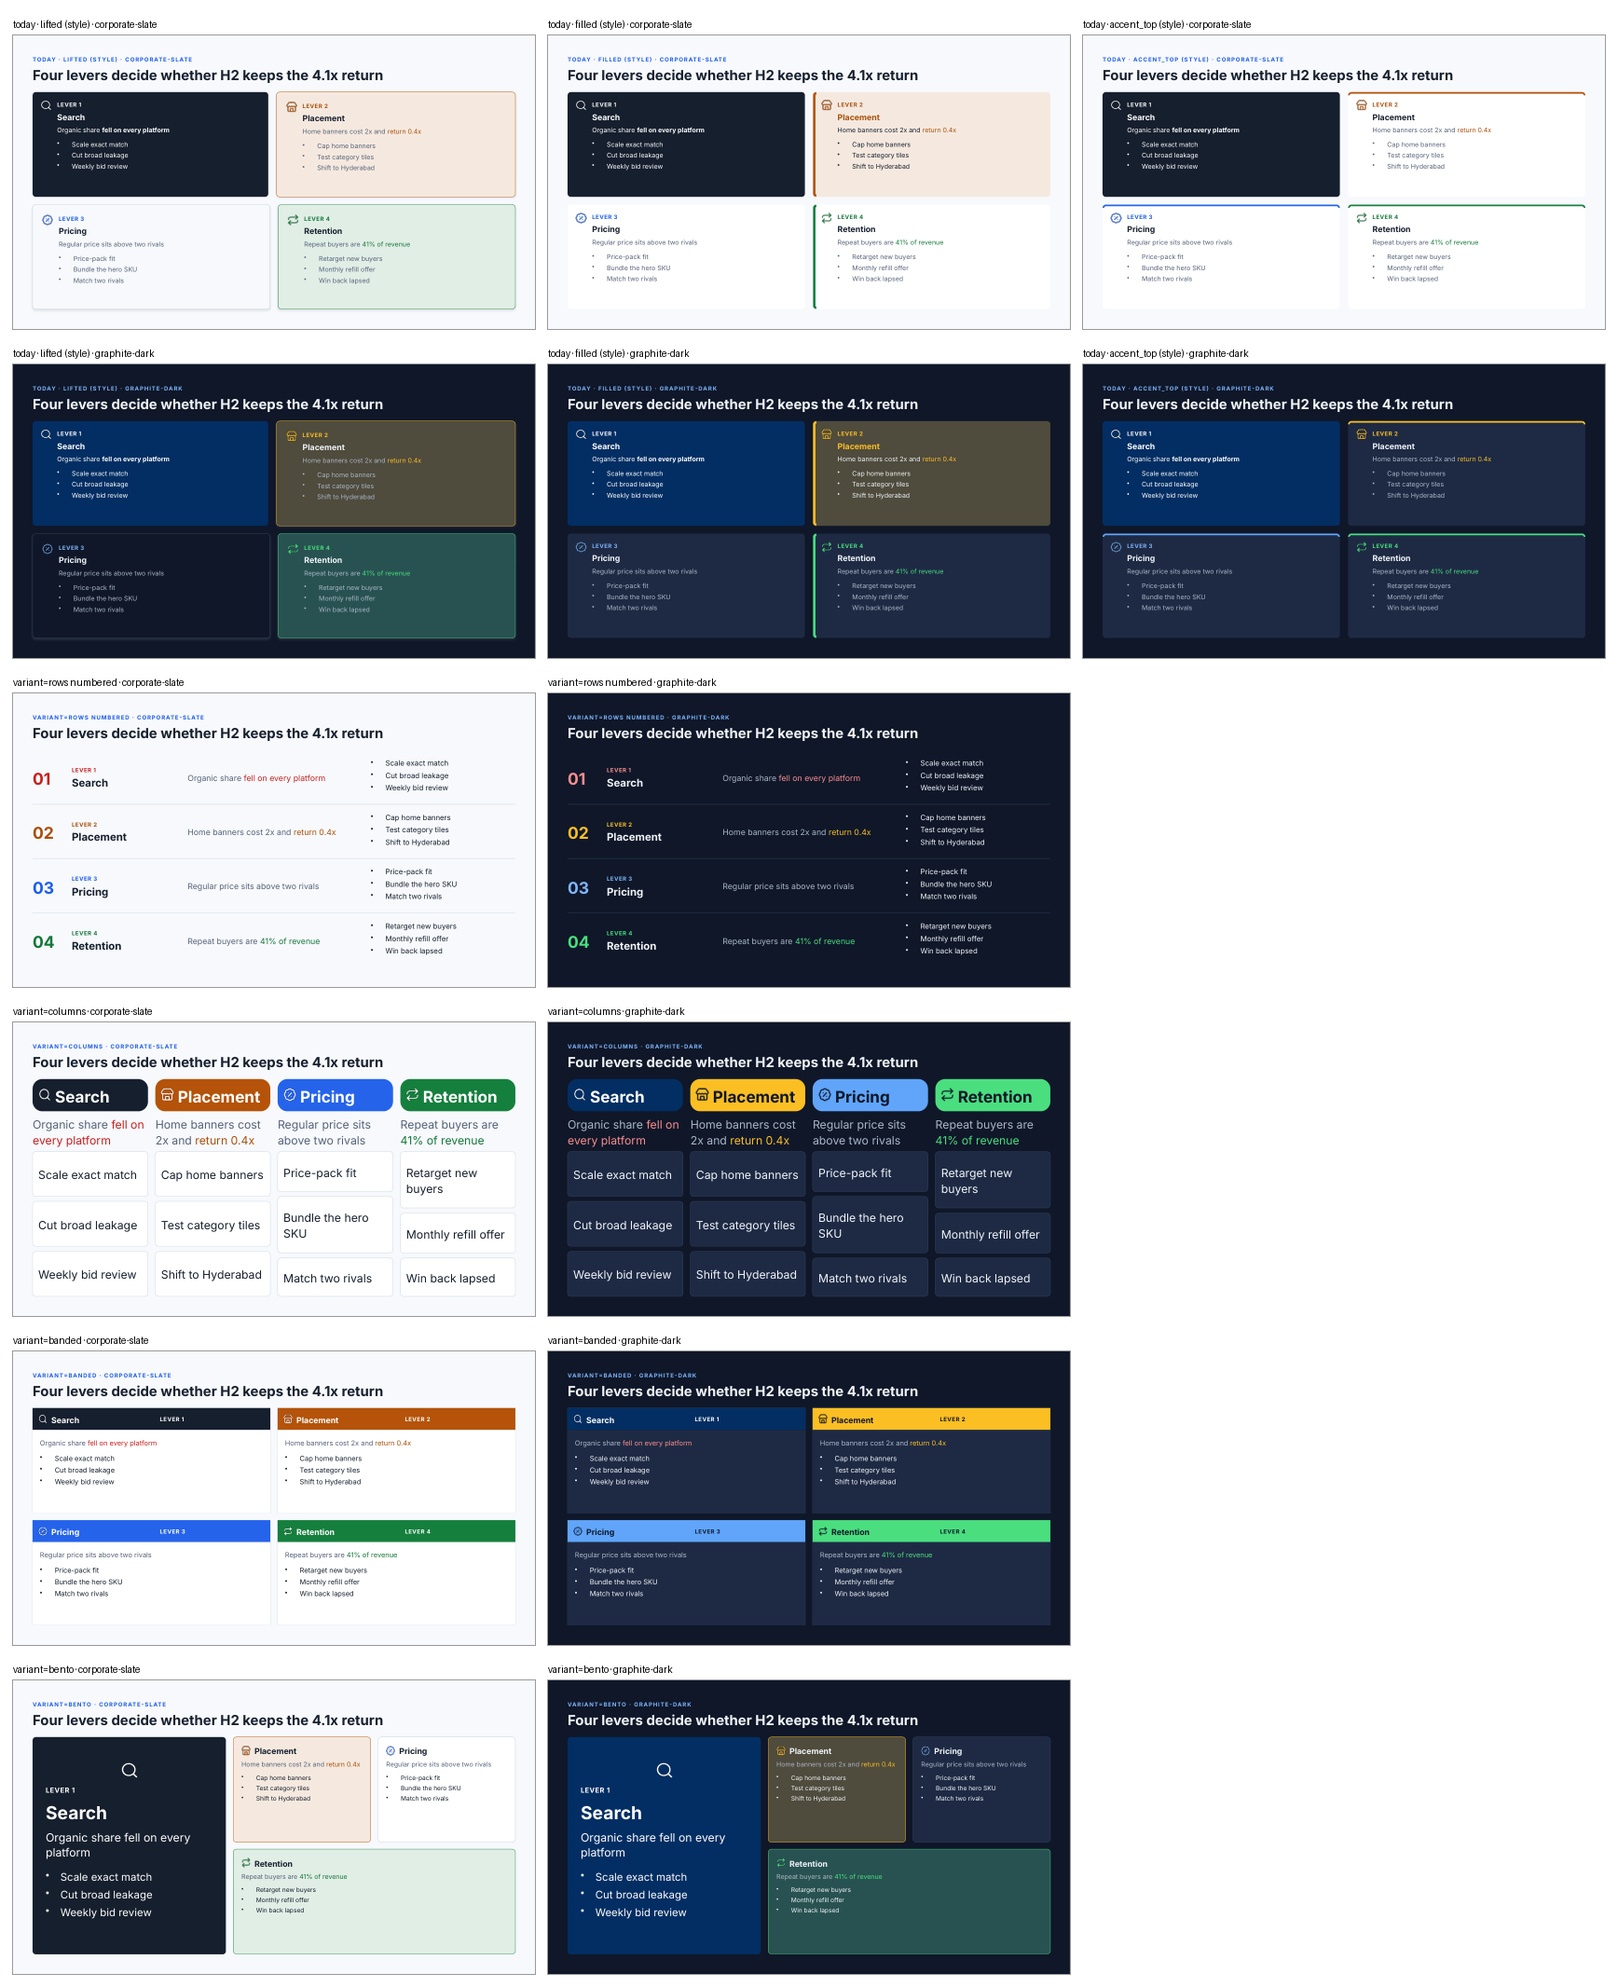
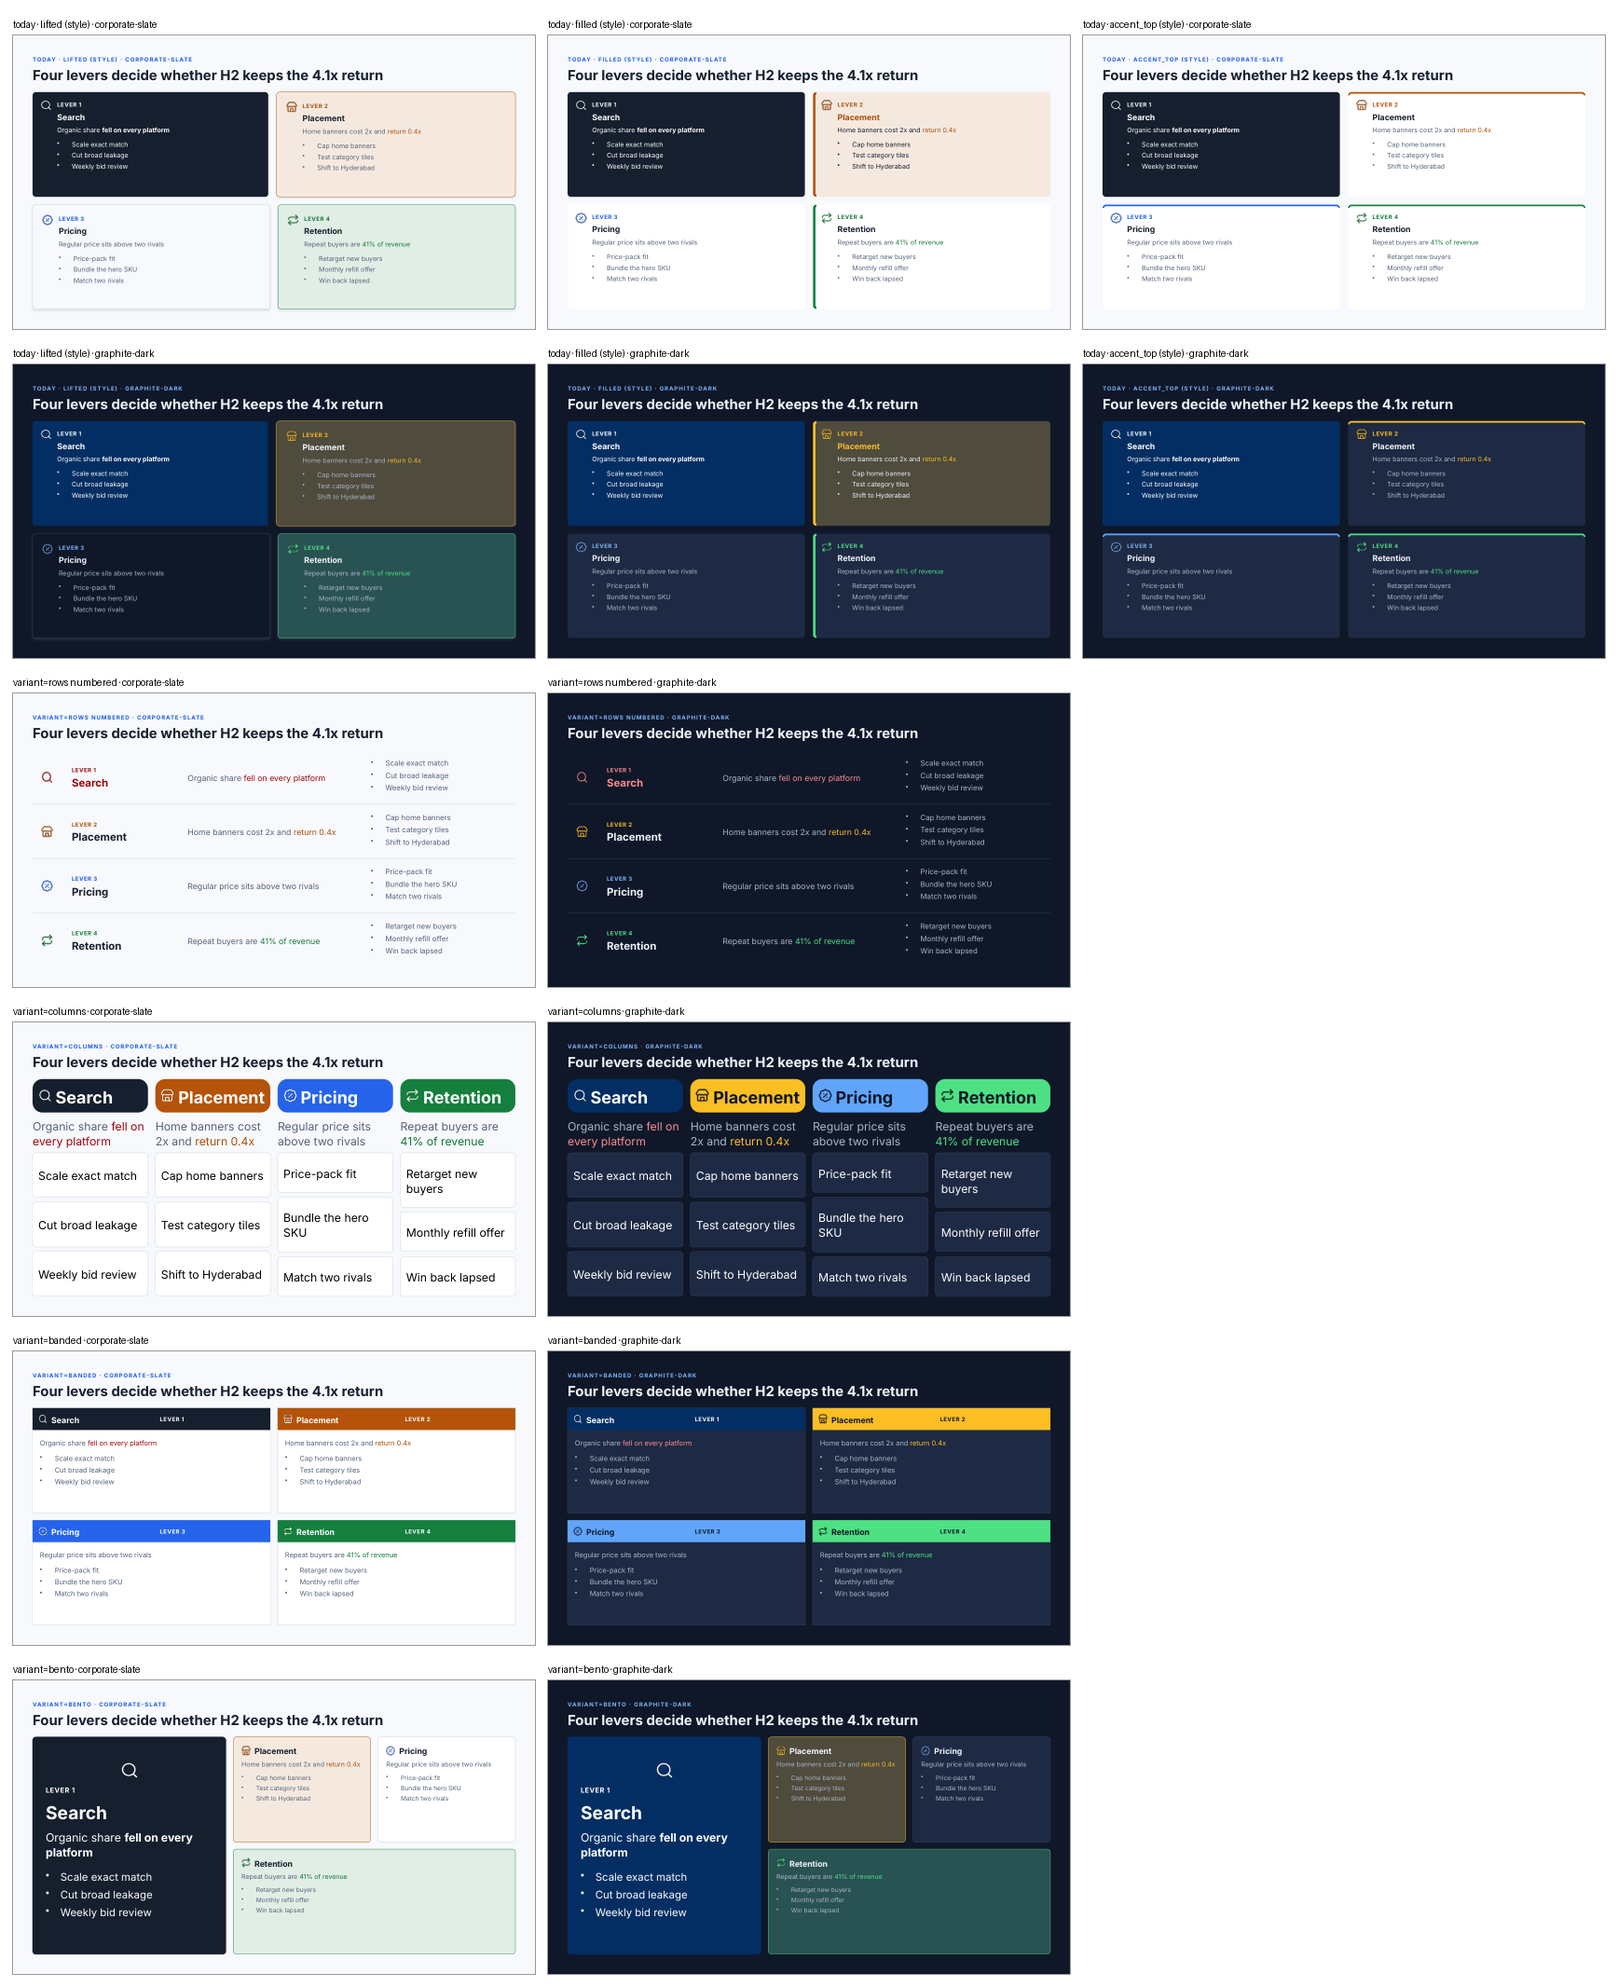
Composition gallery = the proof with bare tags (spec §10 step 3): <KpiRow ref variant> / <CardGrid ref variant>
- scripts/composition_convention.py draws every composition row from the bare tag (tile_groups.expand, POM_NODES);
  the hand-written XML of the 2026-10-27 proof is in this file's history
- sheets re-rendered; they match the proof except where the spec decides otherwise:
  - KPI banded: the emphasis item's band is $panelDark (spec §5.1 emphasis; the proof drew it in its tone)
  - card rows numbered draws rows (icons lead): the sample's tags "LEVER 1..4" carry their own ordinal (C10)
  - KPI strip / rows: no hero value (spec said hero; in a one-row strip it wrapped "14 months" over the delta and in
    rows it shrank the other labels; the proof drew none) -- for the user's call

diff --git a/presentation-pipeline/scripts/composition_convention.py b/presentation-pipeline/scripts/composition_convention.py
@@ -4,17 +4,18 @@
     python -m scripts.composition_convention                  # kpi + card, corporate-slate + graphite-dark
     python -m scripts.composition_convention --only kpi
 
-One sample plan per block (typed schema, content_from_data validates it). Each composition is hand-written as the
-XML its node would expand to, with the composition's theme-default look ($tokens and the plan's tone roles only, no
-LLM attributes), and drawn on two palettes. The same XML on both palettes: the theme supplies every colour.
-Peer ids as the real nodes write them, so fit-grow grows peers to one size: KPI parts are element refs
-(<Text ref="kpis.0.value"/> -> kpiv- ids), card boxes are card-<cid>-<i>. Today's row is the real
-<KpiGrid> / <CardGrid> code (POM_BLOCKS=tiles). Writes <out>/<block>.png and every slide's folder.
+One sample plan per block (typed schema, content_from_data validates it). Each composition is the bare tag the
+generator writes (<KpiRow ref="kpis" variant="rows"/>), drawn by its node (tile_groups.py, POM_NODES) with the
+composition's default look ($tokens and $tone only, no LLM attributes), on two palettes. Since 2026-11-01 the
+composition gallery (spec §10 step 3): the rows must match the 2026-10-27 proof drawn from hand-written XML.
+Today's rows are the real <KpiGrid> / <CardGrid> code (POM_BLOCKS=tiles). Writes <out>/<block>.png and every slide's
+folder.
 """
 
 from __future__ import annotations
 
 import argparse
+import os
 import shutil
 import sys
 from pathlib import Path
@@ -27,11 +28,13 @@ from scripts import composition_test as CT  # noqa: E402
 from scripts import left_blocks_gallery as LB  # noqa: E402
 from scripts import tile_gallery as TG  # noqa: E402  (sets POM_BLOCKS=tiles)
 from src.agents.style_resolver import resolve_theme  # noqa: E402
-from src.compiler.nodes import tiles  # noqa: E402
+from src.compiler.nodes import tile_groups  # noqa: E402
+
+os.environ["POM_NODES"] = "kpi_row,card_grid"   # the composition nodes the bare tags need
 
 OUT = ROOT / "output" / "composition-convention"
 PALETTES = ("corporate-slate", "graphite-dark")
-X, comp, t = LB.X, LB.comp, CT.t
+comp = LB.comp
 
 # ── sample plans ──────────────────────────────────────────────────────────────
 
@@ -55,176 +58,11 @@ KPI_HEAD = "ARR grew to $48.2M while margin softened"
 CARD_HEAD = "Four levers decide whether H2 keeps the 4.1x return"
 
 
-def a(**kw: str) -> str:
-    return "".join(f' {k.replace("__", ".")}="{X(v)}"' for k, v in kw.items())
-
-
-# ── KPI compositions (default look: theme tokens + the plan's tone roles) ────────
-
-def kpi_role(i: int) -> str:
-    return tiles.tone_role(KPIS, i)   # good -> positive, bad -> negative, watch -> warning, none -> accent
-
-
-def kpi_parts(i: int, value_color: bool = True, hero: bool = False, ink: str = "") -> tuple[str, str, str, str]:
-    """(icon, label, value, delta) for item i: element refs, so code writes the text and the peer ids."""
-    r, cd = kpi_role(i), KPIS["content_data"]
-    icon = f'<Icon name="{cd["kpi_icons"][i]}" size="24" color="{ink or f"${r}Text"}" />'
-    label = f'<Text ref="kpis.{i}.label"{a(color=ink) if ink else ""} />'
-    vc = ink or (f"${r}Text" if value_color and r != "accent" else "")
-    value = f'<Text ref="kpis.{i}.value"{a(color=vc) if vc else ""}{a(size="hero") if hero else ""} />'
-    note = f'<Text ref="kpis.{i}.note"{a(color=ink) if ink else ""} />'
-    return icon, label, value, note
-
-
-def right(part: str) -> str:
-    """A self-closing part Text, right-aligned."""
-    return part.replace(" />", ' textAlign="right" />')
-
-
-def kpi_strip() -> str:
-    """strip: one shared box, the items side by side split by hairlines, one row (today's `divided`)."""
-    items = []
-    for i in range(4):
-        icon, label, value, note = kpi_parts(i)
-        rule = a(borderLeft__color="$border", borderLeft__width="1", padding__left="28") if i else ""
-        items.append(f'<VStack id="kpis-item-{i}" w="1" grow="1" gap="8" justifyContent="center"{rule}>'
-                     f'<HStack gap="10" alignItems="center">{icon}{label}</HStack>{value}{note}</VStack>')
-    return (f'<HStack gap="28" grow="1" alignItems="stretch" padding="28" backgroundColor="$surfaceAlt" '
-            f'border.color="$border" border.width="1">{"".join(items)}</HStack>')
-
-
-def kpi_rows() -> str:
-    """rows: one item per full-width row, hairlines between: icon, label over delta, the value at the right."""
-    rows = []
-    for i in range(4):
-        icon, label, value, note = kpi_parts(i)
-        rule = a(borderTop__color="$border", borderTop__width="1") if i else ""
-        badge = (f'<VStack w="48" h="48" backgroundColor="${kpi_role(i)}Soft" justifyContent="center" '
-                 f'alignItems="center">{icon}</VStack>')
-        rows.append(f'<HStack id="kpis-item-{i}" grow="1" gap="18" alignItems="center" padding.top="10" padding.bottom="10"{rule}>'
-                    f'{badge}<VStack grow="1" gap="4">{label}{note}</VStack>'
-                    f'{right(value)}</HStack>')
-    return f'<VStack gap="0" grow="1" padding.left="8" padding.right="8">{"".join(rows)}</VStack>'
-
-
-def kpi_banded() -> str:
-    """banded: equal boxes, each with a solid head band (icon + label) over the value and delta."""
-    items = []
-    for i in range(4):
-        r = kpi_role(i)
-        icon, label, value, note = kpi_parts(i, value_color=False)
-        icon_b = icon.replace(f'color="${r}Text"', 'color="$onAccent"')
-        label_b = label.replace(" />", ' color="$onAccent" />')
-        items.append(f'<VStack id="kpis-item-{i}" w="1" grow="1" gap="0" border.color="$border" border.width="1">'
-                     f'<HStack gap="10" padding="14" alignItems="center" backgroundColor="${r}">{icon_b}{label_b}</HStack>'
-                     f'<VStack grow="1" gap="8" padding="20" justifyContent="center" backgroundColor="$surfaceAlt">{value}{note}</VStack></VStack>')
-    return f'<HStack gap="18" grow="1" alignItems="stretch">{"".join(items)}</HStack>'
-
-
-def kpi_bento() -> str:
-    """bento: the plan's emphasis item as one large dark block, value first; the rest stacked beside it."""
-    e = tiles.emphasis_index(KPIS)
-    icon, label, value, note = kpi_parts(e, hero=True, ink="$onPanelDark")
-    hero = (f'<VStack id="kpis-hero" w="42%" gap="12" padding="32" justifyContent="center" backgroundColor="$panelDark">'
-            f'{icon}{value}{label}{note}</VStack>')
-    rest = []
-    for i in (k for k in range(4) if k != e):
-        icon, label, value, note = kpi_parts(i)
-        rest.append(f'<HStack id="kpis-item-{i}" grow="1" gap="16" padding="18" alignItems="center" backgroundColor="$surfaceAlt" '
-                    f'border.color="$border" border.width="1">{icon}<VStack grow="1" gap="4">{label}{note}</VStack>'
-                    f'{right(value)}</HStack>')
-    return f'<HStack gap="18" grow="1" alignItems="stretch">{hero}<VStack grow="1" gap="14">{"".join(rest)}</VStack></HStack>'
-
-
-# ── card compositions ─────────────────────────────────────────────────────────
-
-def card_role(i: int) -> str:
-    return {"good": "positive", "bad": "negative", "watch": "warning"}.get(CARDS["content_data"]["cards"][i].get("tone", ""), "accent")
-
-
-def body(c: dict, px: int = 18, color: str = "$textMuted", key: str = "") -> str:
-    """The body line, its key phrase as a coloured span (as cards.py draws it)."""
-    text, kp = c["body"], c.get("key_phrase")
-    if kp and kp in text:
-        pre, post = text.split(kp, 1)
-        inner = f'{X(pre)}<Span color="{key}" bold="true">{X(kp)}</Span>{X(post)}'
-    else:
-        inner = X(text)
-    return f'<Text fontSize="{px}" color="{color}" lineHeight="1.35">{inner}</Text>'
-
-
-def bullets(c: dict, px: int = 17, color: str = "$textMain") -> str:
-    return f'<Ul fontSize="{px}" lineHeight="1.4" color="{color}">{"".join(f"<Li>{X(b)}</Li>" for b in c["bullets"])}</Ul>'
-
-
-def focus() -> int:
-    return CARDS["content_data"]["focus_card"]
-
-
-def card_rows() -> str:
-    """rows numbered: one card per full-width row, hairlines between: code's number, tag + title, body, bullets."""
-    rows = []
-    for i, c in enumerate(CARDS["content_data"]["cards"]):
-        r = card_role(i)
-        rule = a(borderTop__color="$border", borderTop__width="1") if i else ""
-        rows.append(f'<HStack id="card-levers-{i}" grow="1" gap="24" alignItems="center" padding.top="10" padding.bottom="10"{rule}>'
-                    f'<VStack w="72">{t(f"{i + 1:02d}", 40, f"${r}Text", bold="true")}</VStack>'
-                    f'<VStack w="22%" gap="4">{t(c["tag"], 13, f"${r}Text", bold="true", letterSpacing="1")}'
-                    f'{t(c["title"], 26, bold="true")}</VStack>'
-                    f'<VStack w="1" grow="1">{body(c, 20, key=f"${r}Text")}</VStack>'
-                    f'<VStack w="30%">{bullets(c, 18)}</VStack></HStack>')
-    return f'<VStack gap="0" grow="1">{"".join(rows)}</VStack>'
-
-
-def card_columns() -> str:
-    """columns: one column per card: a pill head (icon + title), the body, each bullet in its own box."""
-    cols = []
-    for i, c in enumerate(CARDS["content_data"]["cards"]):
-        r = card_role(i)
-        fill, ink = ("$panelDark", "$onPanelDark") if i == focus() else (f"${r}", "$onAccent")
-        pill = (f'<HStack padding="14" gap="10" alignItems="center" justifyContent="center" backgroundColor="{fill}" borderRadius="24">'
-                f'<Icon name="{c["icon"]}" size="22" color="{ink}" />{t(c["title"], 20, ink, bold="true")}</HStack>')
-        boxes = "".join(f'<VStack grow="1" padding="14" justifyContent="center" backgroundColor="$surfaceAlt" border.color="$border" '
-                        f'border.width="1" borderRadius="8">{t(b, 17)}</VStack>' for b in c["bullets"])
-        cols.append(f'<VStack id="card-levers-{i}" w="1" grow="1" gap="12" alignItems="stretch">{pill}'
-                    f'{body(c, 16, key=f"${r}Text")}{boxes}</VStack>')
-    return f'<HStack gap="18" grow="1" alignItems="stretch">{"".join(cols)}</HStack>'
-
-
-def card_banded() -> str:
-    """banded: equal boxes in a grid, each with a solid head band (icon + title, tag at the right) over body + bullets."""
-    blocks = []
-    for i, c in enumerate(CARDS["content_data"]["cards"]):
-        r = card_role(i)
-        fill, ink = ("$panelDark", "$onPanelDark") if i == focus() else (f"${r}", "$onAccent")
-        band = (f'<HStack padding="14" gap="10" alignItems="center" backgroundColor="{fill}">'
-                f'<Icon name="{c["icon"]}" size="22" color="{ink}" /><VStack grow="1">{t(c["title"], 20, ink, bold="true")}</VStack>'
-                f'{t(c["tag"], 12, ink, bold="true", letterSpacing="1")}</HStack>')
-        inner = (f'<VStack grow="1" gap="10" padding="18" backgroundColor="$surfaceAlt">{body(c, 17, key=f"${r}Text")}'
-                 f'{bullets(c)}</VStack>')
-        blocks.append(f'<VStack id="card-levers-{i}" w="1" grow="1" gap="0" border.color="$border" border.width="1">{band}{inner}</VStack>')
-    return ('<VStack gap="18" grow="1">' + "".join(f'<HStack gap="18" grow="1" alignItems="stretch">{"".join(blocks[k:k + 2])}</HStack>'
-                                                  for k in (0, 2)) + "</VStack>")
-
-
-def card_bento() -> str:
-    """bento: the plan's focus card as one large dark block; the rest as 2 + 1 beside it."""
-    cs, f = CARDS["content_data"]["cards"], focus()
-    c = cs[f]
-    big = (f'<VStack id="cardf-levers-{f}" w="40%" gap="14" padding="32" justifyContent="center" backgroundColor="$panelDark" borderRadius="8">'
-           f'<Icon name="{c["icon"]}" size="36" color="$onPanelDark" />{t(c["tag"], 13, "$onPanelDark", bold="true", letterSpacing="1")}'
-           f'{t(c["title"], 30, "$onPanelDark", bold="true")}{body(c, 20, "$onPanelDark", key="$onPanelDark")}'
-           f'{bullets(c, 18, "$onPanelDark")}</VStack>')
-    small = []
-    for i in (k for k in range(len(cs)) if k != f):
-        r, c = card_role(i), cs[i]
-        tint = a(backgroundColor=f"${r}Soft", border__color=f"${r}") if c.get("tone") else a(backgroundColor="$surfaceAlt", border__color="$border")
-        small.append(f'<VStack id="card-levers-{i}" w="1" grow="1" gap="8" padding="20" borderRadius="8" border.width="1"{tint}>'
-                     f'<HStack gap="10" alignItems="center"><Icon name="{c["icon"]}" size="22" color="${r}Text" />'
-                     f'{t(c["title"], 20, bold="true")}</HStack>{body(c, 16, key=f"${r}Text")}{bullets(c, 15)}</VStack>')
-    right = (f'<VStack grow="1" gap="18"><HStack gap="18" grow="1" alignItems="stretch">{"".join(small[:2])}</HStack>'
-             f'<HStack gap="18" grow="1" alignItems="stretch">{small[2]}</HStack></VStack>')
-    return f'<HStack gap="18" grow="1" alignItems="stretch">{big}{right}</HStack>'
+def tag(group: str, cid: str, variant: str) -> str:
+    """The bare tag the generator writes; tile_groups.expand draws it (POM_NODES), as the hand-written XML of the
+    2026-10-27 proof did (git history of this file; the sheets in docs/eval/composition-convention/)."""
+    plan = {"components": [KPIS, CARDS]}
+    return tile_groups.expand(f'<{group} ref="{cid}" variant="{variant}" grow="1" />', plan)["xml"]
 
 
 # ── sheets ────────────────────────────────────────────────────────────────────
@@ -232,10 +70,10 @@ def card_bento() -> str:
 BLOCKS = {
     "kpi": (KPIS, KPI_HEAD,
             [(f"today · {v} (style)", f'<KpiGrid ref="kpis" variant="{v}" grow="1" />') for v in ("plain", "filled", "bar")],
-            [("strip", kpi_strip), ("rows", kpi_rows), ("banded", kpi_banded), ("bento", kpi_bento)]),
+            [(v, lambda v=v: tag("KpiRow", "kpis", v)) for v in ("strip", "rows", "banded", "bento")]),
     "card": (CARDS, CARD_HEAD,
              [(f"today · {v} (style)", f'<CardGrid ref="levers" variant="{v}" />') for v in ("lifted", "filled", "accent_top")],
-             [("rows numbered", card_rows), ("columns", card_columns), ("banded", card_banded), ("bento", card_bento)]),
+             [(v, lambda v=v: tag("CardGrid", "levers", v)) for v in ("rows numbered", "columns", "banded", "bento")]),
 }
 
 
